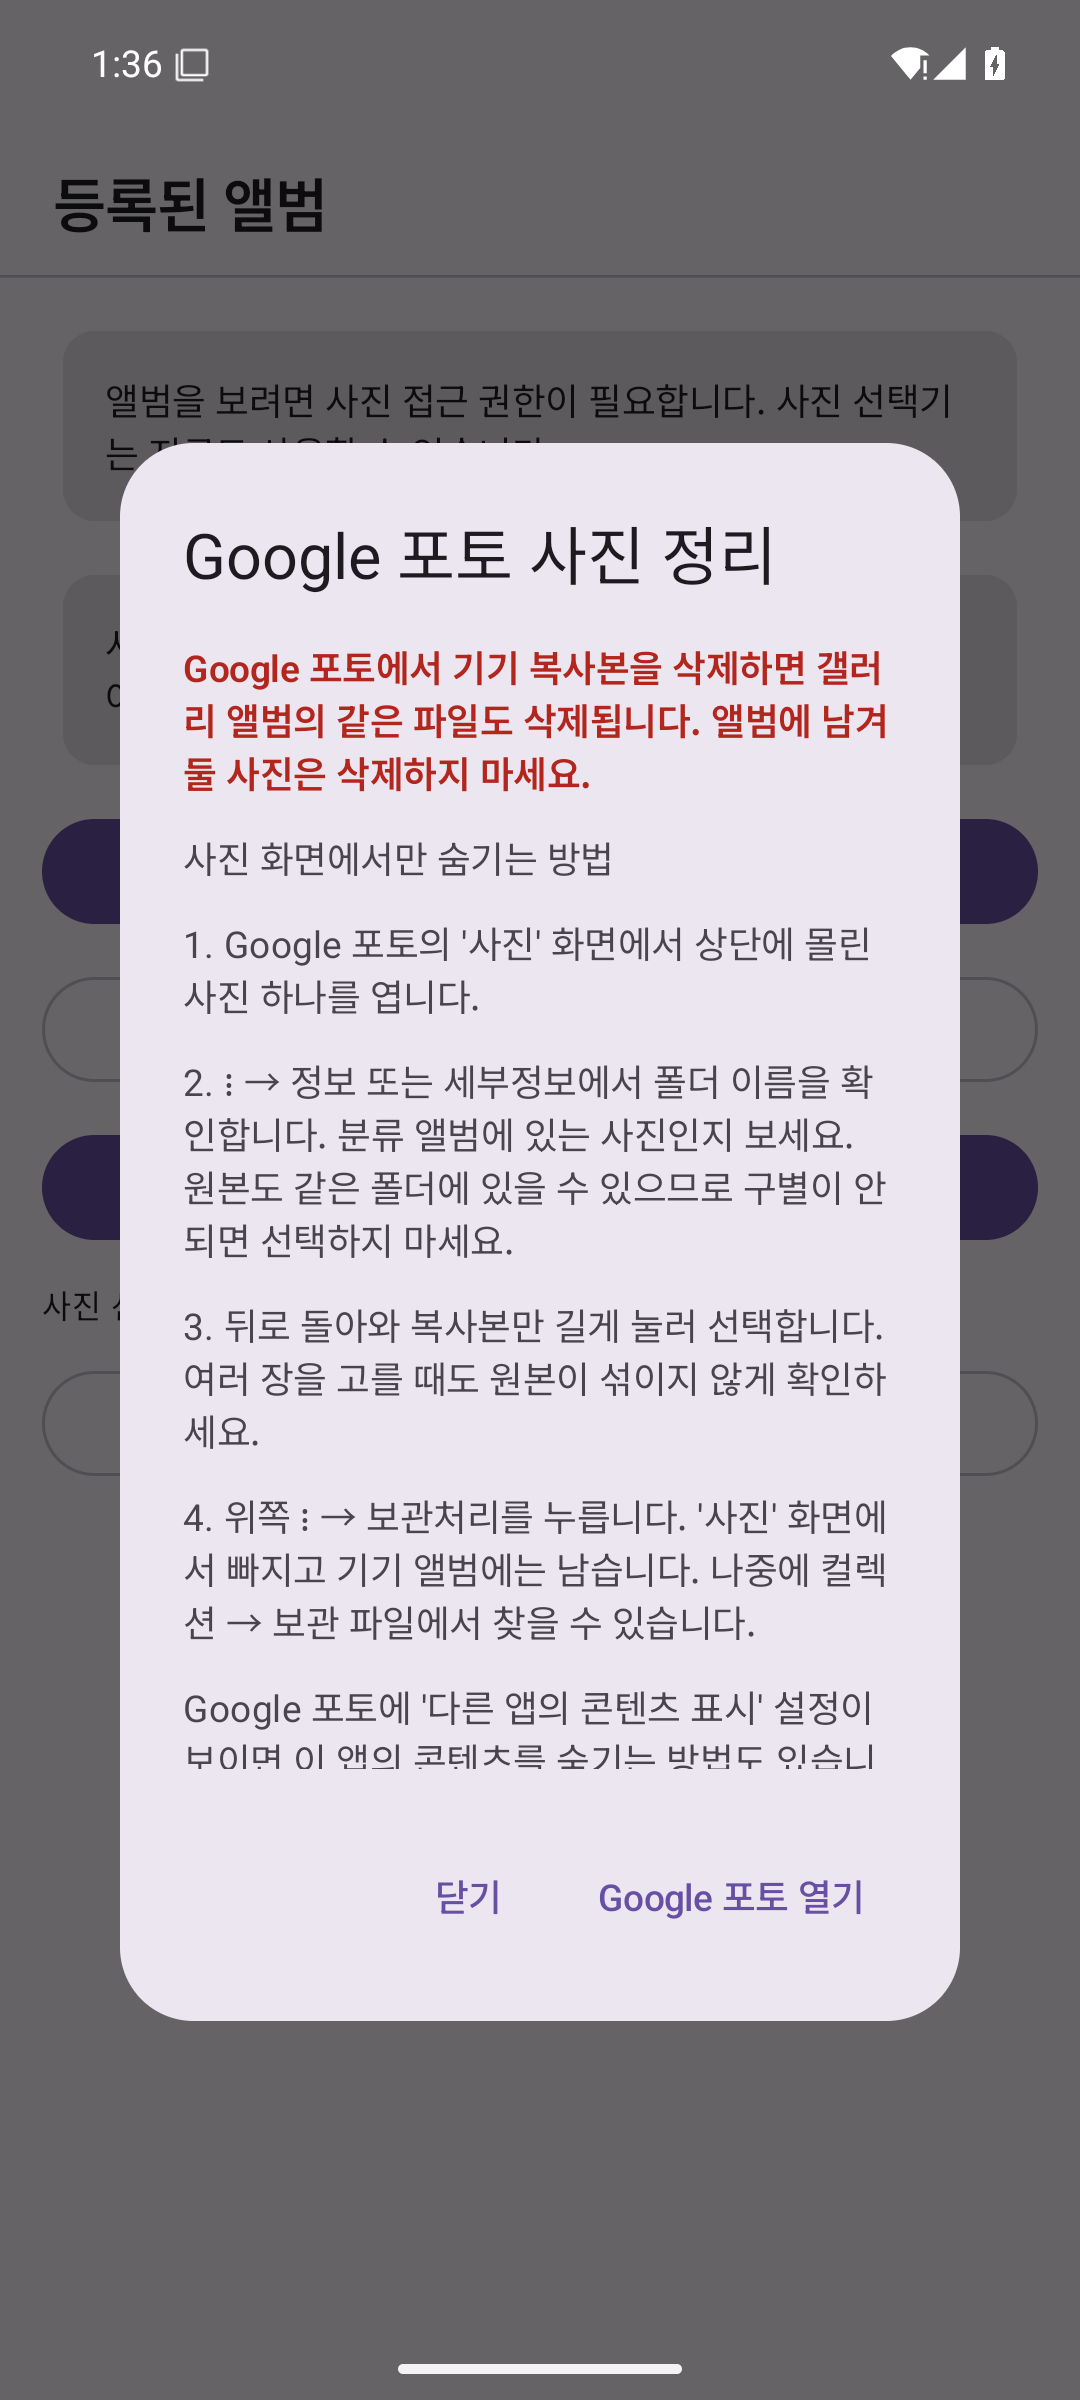
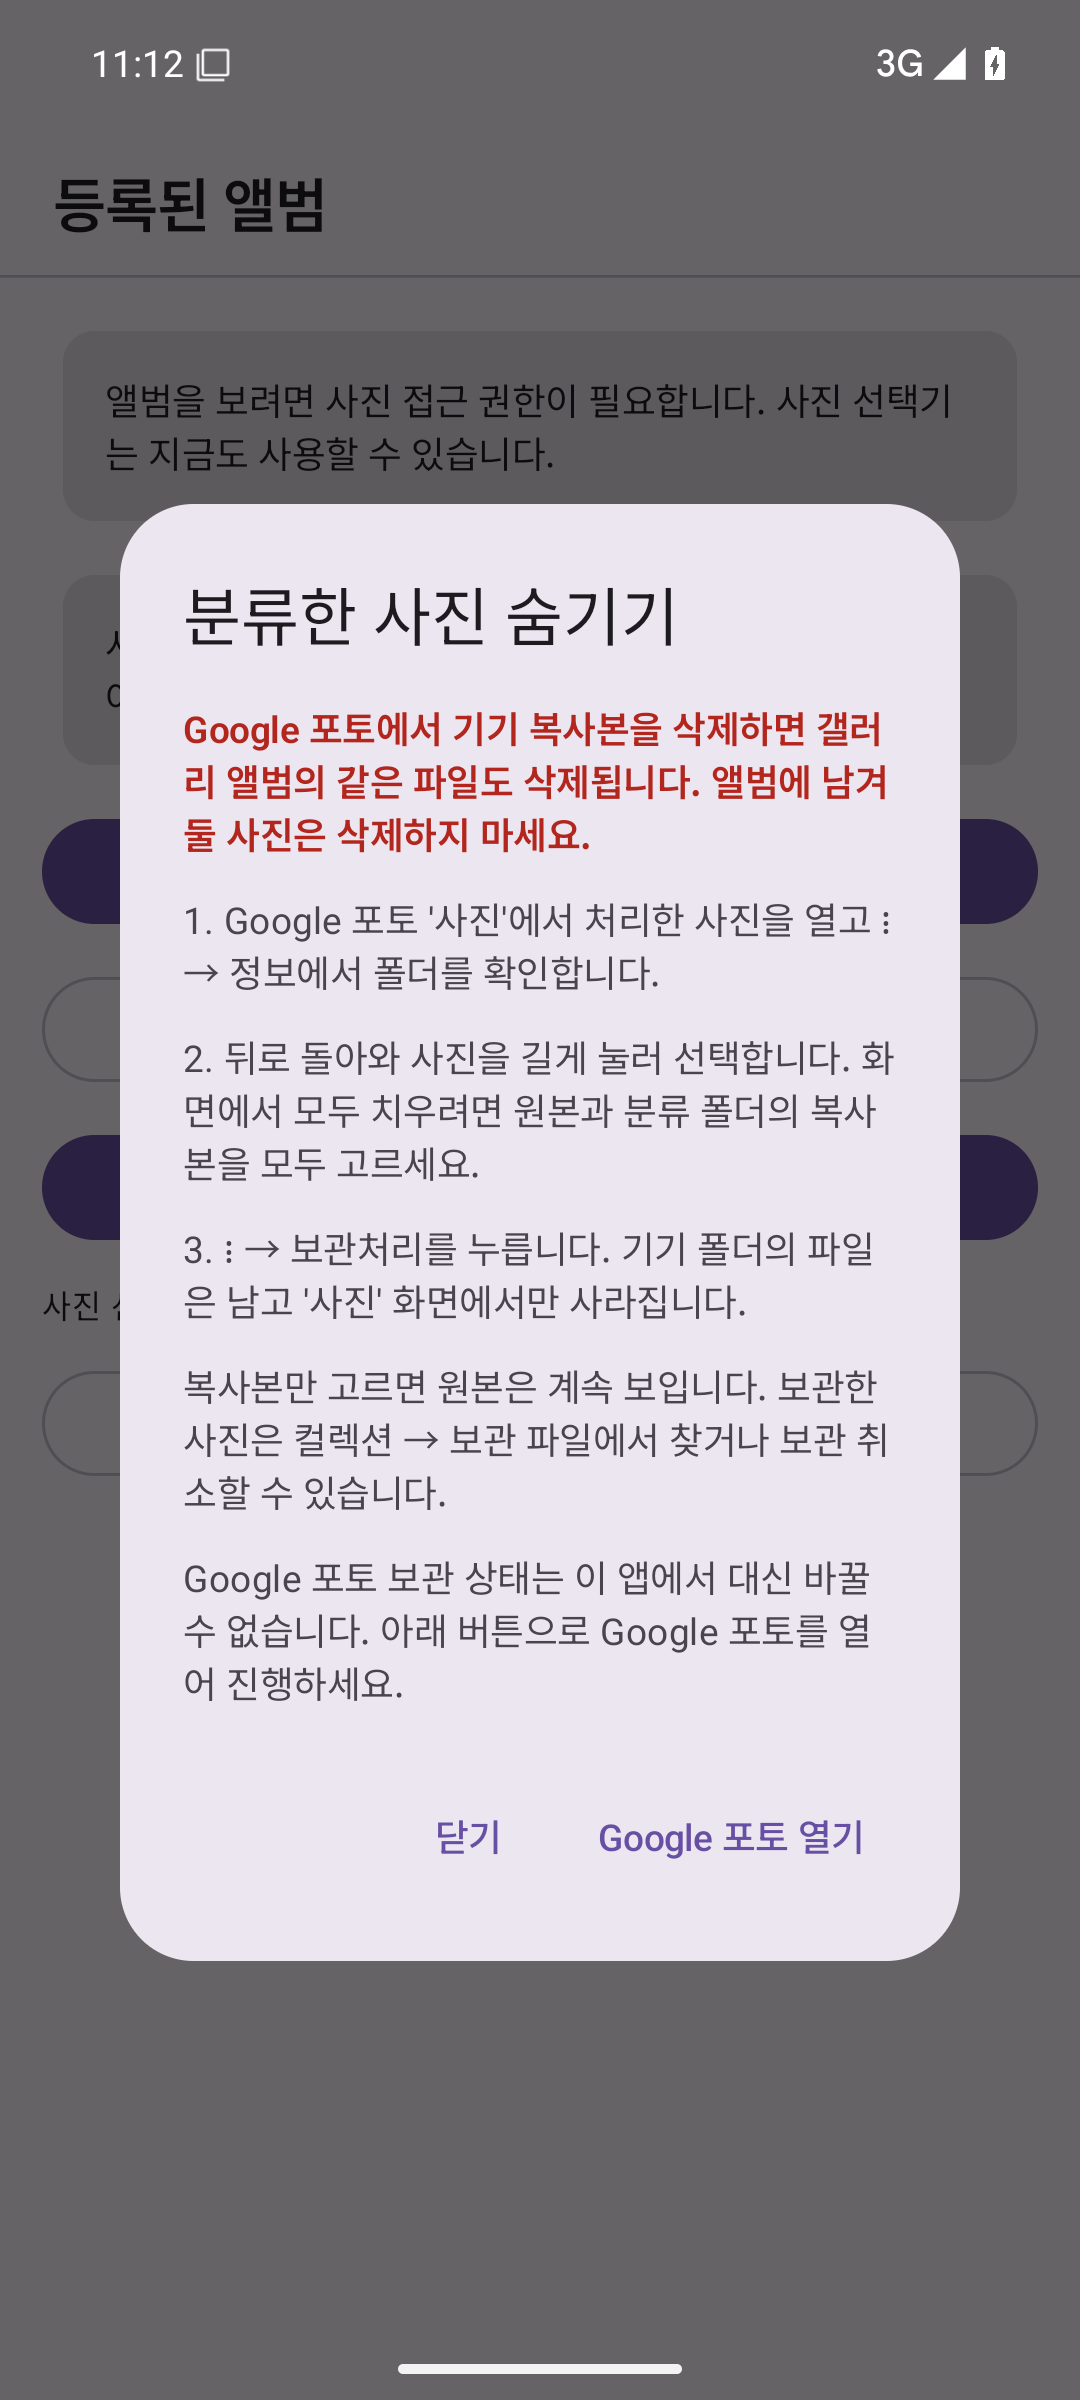
Clarify archiving originals and sorted copies in Google Photos

Changed region(s): [[0.0917, 0.1875, 0.8861, 0.8438], [0.1222, 0.0, 0.2139, 0.0312], [0.825, 0.0, 0.8556, 0.0312]]

diff --git a/guide.html b/guide.html
@@ -180,12 +180,12 @@
             <div><p><strong>파일:</strong> Chrome 오른쪽 위 <strong>⋮ → 다운로드</strong> 또는 삼성 갤럭시의 <strong>내 파일 → 다운로드</strong>에서 PhotoSorter.apk를 찾으세요.</p><p><strong>앨범:</strong> Android 14 이상에서 일부 사진만 허용했다면 앱에 보이는 앨범이 제한될 수 있습니다. 앱의 <strong>사진 접근 범위 변경</strong>이나 휴대전화 앱 설정에서 사진 권한을 확인하세요. 클라우드 전용 앨범은 앱에 표시되지 않을 수 있습니다.</p></div>
           </details>
           <details>
-            <summary id="google-photos-copies">Google 포토 맨 위에 같은 사진이 여러 장 보여요</summary>
+            <summary id="google-photos-copies">이미 분류한 사진이 Google 포토에 아직 보여요</summary>
             <div>
               <p>이 앱은 <strong>원본을 남기고 선택한 앨범마다 사진 한 장씩 복사</strong>합니다. 앨범 두 곳을 고르면 원본 한 장과 복사본 두 장이 Google 포토의 <strong>사진</strong> 화면에 함께 보일 수 있습니다. 사진에 촬영 날짜 정보가 없으면 새 복사본이 맨 위에 나타날 수도 있습니다. 고장이나 한 앨범에 여러 번 복사된 것인지 확인하려면 사진을 열고 <strong>⋮ → 정보</strong>의 <strong>세부정보</strong>에서 폴더 이름을 보세요.</p>
               <p><strong>삭제하면 어떻게 되나요?</strong> Google 포토 앱에서 사진을 휴지통에 넣으면 휴대전화의 같은 사진 파일도 삭제됩니다. 분류해 둔 앨범의 복사본을 삭제하면 그 앨범에서도 사라집니다. 앨범을 유지하면서 위쪽 사진 화면만 정리하려면 <strong>삭제 대신 아래의 숨기기 또는 보관처리</strong>를 사용하세요. <a href="https://support.google.com/photos/answer/6128858?co=GENIE.Platform%3DAndroid&amp;hl=ko">Google 포토 삭제 안내</a></p>
               <figure class="help-screenshot"><img src="images/guide/screenshots/google-photos-help.png" alt="실제 사진 분류 앱에서 Google 포토 정리 방법 버튼을 눌렀을 때 나타나는 삭제 경고와 보관처리 안내 화면" width="1080" height="2400" loading="lazy" decoding="async"><figcaption>앱 홈이나 분류 완료 화면의 ‘Google 포토 정리 방법’을 누르면 이 안내가 열립니다. Android 15 시험 기기 화면입니다.</figcaption><a class="image-zoom" href="images/guide/screenshots/google-photos-help.png">실제 화면 크게 보기 ↗</a></figure>
-              <p><strong>이미 위에 뜬 복사본 숨기기:</strong> Google 포토에서 사진을 하나 열어 <strong>⋮ → 정보 → 세부정보</strong>의 폴더를 확인하세요. 원본이 아니라 분류 앨범에 있는 <strong>복사본만</strong> 길게 눌러 고릅니다. 원본과 복사본이 같은 폴더에 있어 구별되지 않으면 선택하지 마세요. 여러 장을 고를 수 있습니다. 위쪽 <strong>⋮ → 보관처리</strong>를 누르면 <strong>사진</strong> 화면에서 사라지고 기기 폴더에는 남습니다. <strong>컬렉션 → 보관 파일</strong>에서 다시 찾거나 보관 취소할 수 있습니다. <a href="https://support.google.com/photos/answer/7362432?co=GENIE.Platform%3DAndroid&amp;hl=ko">Google 포토 보관처리 안내</a></p>
+              <p><strong>이미 분류한 사진을 사진 화면에서 숨기기:</strong> Google 포토에서 사진 하나를 열어 <strong>⋮ → 정보 → 세부정보</strong>의 폴더 이름을 확인하세요. 뒤로 돌아와 사진을 한 장 길게 누르고 숨길 사진을 모두 고릅니다. <strong>원본까지 화면에서 치우려면 원본과 분류 앨범의 복사본을 모두 선택</strong>하세요. 복사본만 고르면 원본은 계속 보입니다. 그런 다음 <strong>⋮ → 보관처리</strong>를 누르세요. 보관한 사진은 <strong>사진</strong> 화면에서 사라지지만 원본 파일과 분류 앨범 파일은 남습니다. <strong>컬렉션 → 보관 파일</strong>에서 다시 찾거나 보관 취소할 수 있습니다. <a href="https://support.google.com/photos/answer/7362432?co=GENIE.Platform%3DAndroid&amp;hl=ko">Google 포토 보관처리 안내</a></p>
               <p><strong>앞으로 생길 복사본도 숨기고 싶다면</strong> Google 포토에 아래 설정이 있는지 확인하세요. 앱 버전에 따라 메뉴가 없을 수 있습니다.</p>
               <ol class="advanced-steps">
                 <li>Google 포토에 <strong>비슷한 사진 묶음</strong>이 보이면 묶음을 열고 아래 <strong>⋮ → 설정 관리</strong>를 누르세요. 이 경로는 Google의 공식 안내에 나온 방법입니다.</li>
@@ -193,7 +193,7 @@
                 <li>앱 이름이 목록에 없다면 <strong>다른 앱의 콘텐츠 표시</strong>를 끄는 방법도 있습니다. 이 설정은 다른 앱에서 만든 사진까지 사진 화면에서 숨길 수 있으므로, 결과가 마음에 들지 않으면 다시 켜세요.</li>
                 <li>숨긴 사진이 필요할 때는 Google 포토 아래쪽 <strong>컬렉션 → 기기 내</strong>에서 해당 폴더를 여세요.</li>
               </ol>
-              <p>숨기기 설정이나 보관처리를 해도 <strong>원본과 앨범 복사본은 삭제되지 않습니다.</strong> Google 포토 버전이나 사진의 저장 위치에 따라 메뉴 또는 앱 이름이 보이지 않거나 일부 복사본에 적용되지 않을 수 있습니다. 이 앱은 Google 포토의 표시 설정을 대신 바꿀 수 없습니다. <a href="https://support.google.com/photos/answer/14169846?co=GENIE.Platform%3DAndroid&amp;hl=ko">Google 포토의 다른 앱 사진 숨기기 안내</a>와 <a href="https://support.google.com/photos/answer/6306652?co=GENIE.Platform%3DAndroid&amp;hl=ko">기기 내 폴더 찾기 안내</a>를 참고하세요.</p>
+              <p><strong>앱별 모두 숨기기</strong>는 이 앱이 만든 복사본에만 적용될 수 있어 원본이 사진 화면에 남을 수 있습니다. 분류한 사진 전체를 숨기려면 위의 보관처리를 사용하세요. 숨기기 설정이나 보관처리를 해도 <strong>원본과 앨범 복사본은 삭제되지 않습니다.</strong> Google 포토 버전이나 사진의 저장 위치에 따라 메뉴 또는 앱 이름이 보이지 않거나 일부 복사본에 적용되지 않을 수 있습니다. 이 앱은 Google 포토의 보관 상태나 표시 설정을 대신 바꿀 수 없습니다. <a href="https://support.google.com/photos/answer/14169846?co=GENIE.Platform%3DAndroid&amp;hl=ko">Google 포토의 다른 앱 사진 숨기기 안내</a>와 <a href="https://support.google.com/photos/answer/6306652?co=GENIE.Platform%3DAndroid&amp;hl=ko">기기 내 폴더 찾기 안내</a>를 참고하세요.</p>
             </div>
           </details>
         </div>
@@ -206,5 +206,10 @@
       <div class="footer-links"><a href="/">설치 페이지로</a><a href="https://github.com/habang2222/habage222.pro/releases">모든 버전 보기 <span aria-hidden="true">↗</span></a></div>
     </footer>
   </div>
+  <script>
+    if (location.hash === '#google-photos-copies') {
+      document.getElementById('google-photos-copies').parentElement.open = true;
+    }
+  </script>
 </body>
 </html>

diff --git a/android/app/src/main/java/com/example/photosorter/ui/Screens.kt b/android/app/src/main/java/com/example/photosorter/ui/Screens.kt
@@ -612,7 +612,7 @@ private fun CompletionScreen(
         Spacer(Modifier.height(16.dp))
         Text("전체 ${state.items.size}장 · 분류 ${copied}장 · 복사된 파일 ${copiedFiles}개 · 건너뜀 ${skipped}장")
         Spacer(Modifier.height(16.dp))
-        InfoCard("Google 포토에서 기기 복사본을 삭제하면 갤러리 앨범의 같은 파일도 사라집니다. 사진 화면에서만 치우려면 복사본을 보관처리해 주세요.")
+        InfoCard("이미 분류한 사진을 Google 포토의 '사진' 화면에서만 숨기려면 원본과 복사본을 모두 보관처리하세요. 기기 앨범의 파일은 남습니다.")
         OutlinedButton(onClick = onGooglePhotosHelp, modifier = Modifier.fillMaxWidth()) {
             Text("Google 포토 정리 방법")
         }
@@ -636,7 +636,7 @@ private fun GooglePhotosHelpDialog(
 ) {
     AlertDialog(
         onDismissRequest = onDismiss,
-        title = { Text("Google 포토 사진 정리") },
+        title = { Text("분류한 사진 숨기기") },
         text = {
             Column(
                 modifier = Modifier.heightIn(max = 430.dp).verticalScroll(rememberScrollState()),
@@ -647,13 +647,11 @@ private fun GooglePhotosHelpDialog(
                     color = MaterialTheme.colorScheme.error,
                     fontWeight = FontWeight.SemiBold,
                 )
-                Text("사진 화면에서만 숨기는 방법")
-                Text("1. Google 포토의 '사진' 화면에서 상단에 몰린 사진 하나를 엽니다.")
-                Text("2. ⋮ → 정보 또는 세부정보에서 폴더 이름을 확인합니다. 분류 앨범에 있는 사진인지 보세요. 원본도 같은 폴더에 있을 수 있으므로 구별이 안 되면 선택하지 마세요.")
-                Text("3. 뒤로 돌아와 복사본만 길게 눌러 선택합니다. 여러 장을 고를 때도 원본이 섞이지 않게 확인하세요.")
-                Text("4. 위쪽 ⋮ → 보관처리를 누릅니다. '사진' 화면에서 빠지고 기기 앨범에는 남습니다. 나중에 컬렉션 → 보관 파일에서 찾을 수 있습니다.")
-                Text("Google 포토에 '다른 앱의 콘텐츠 표시' 설정이 보이면 이 앱의 콘텐츠를 숨기는 방법도 있습니다. 메뉴 이름과 위치는 기기와 앱 버전에 따라 다를 수 있습니다.")
-                Text("아래 버튼으로 Google 포토를 연 뒤 복사본을 직접 보관처리하세요.")
+                Text("1. Google 포토 '사진'에서 처리한 사진을 열고 ⋮ → 정보에서 폴더를 확인합니다.")
+                Text("2. 뒤로 돌아와 사진을 길게 눌러 선택합니다. 화면에서 모두 치우려면 원본과 분류 폴더의 복사본을 모두 고르세요.")
+                Text("3. ⋮ → 보관처리를 누릅니다. 기기 폴더의 파일은 남고 '사진' 화면에서만 사라집니다.")
+                Text("복사본만 고르면 원본은 계속 보입니다. 보관한 사진은 컬렉션 → 보관 파일에서 찾거나 보관 취소할 수 있습니다.")
+                Text("Google 포토 보관 상태는 이 앱에서 대신 바꿀 수 없습니다. 아래 버튼으로 Google 포토를 열어 진행하세요.")
             }
         },
         confirmButton = {
